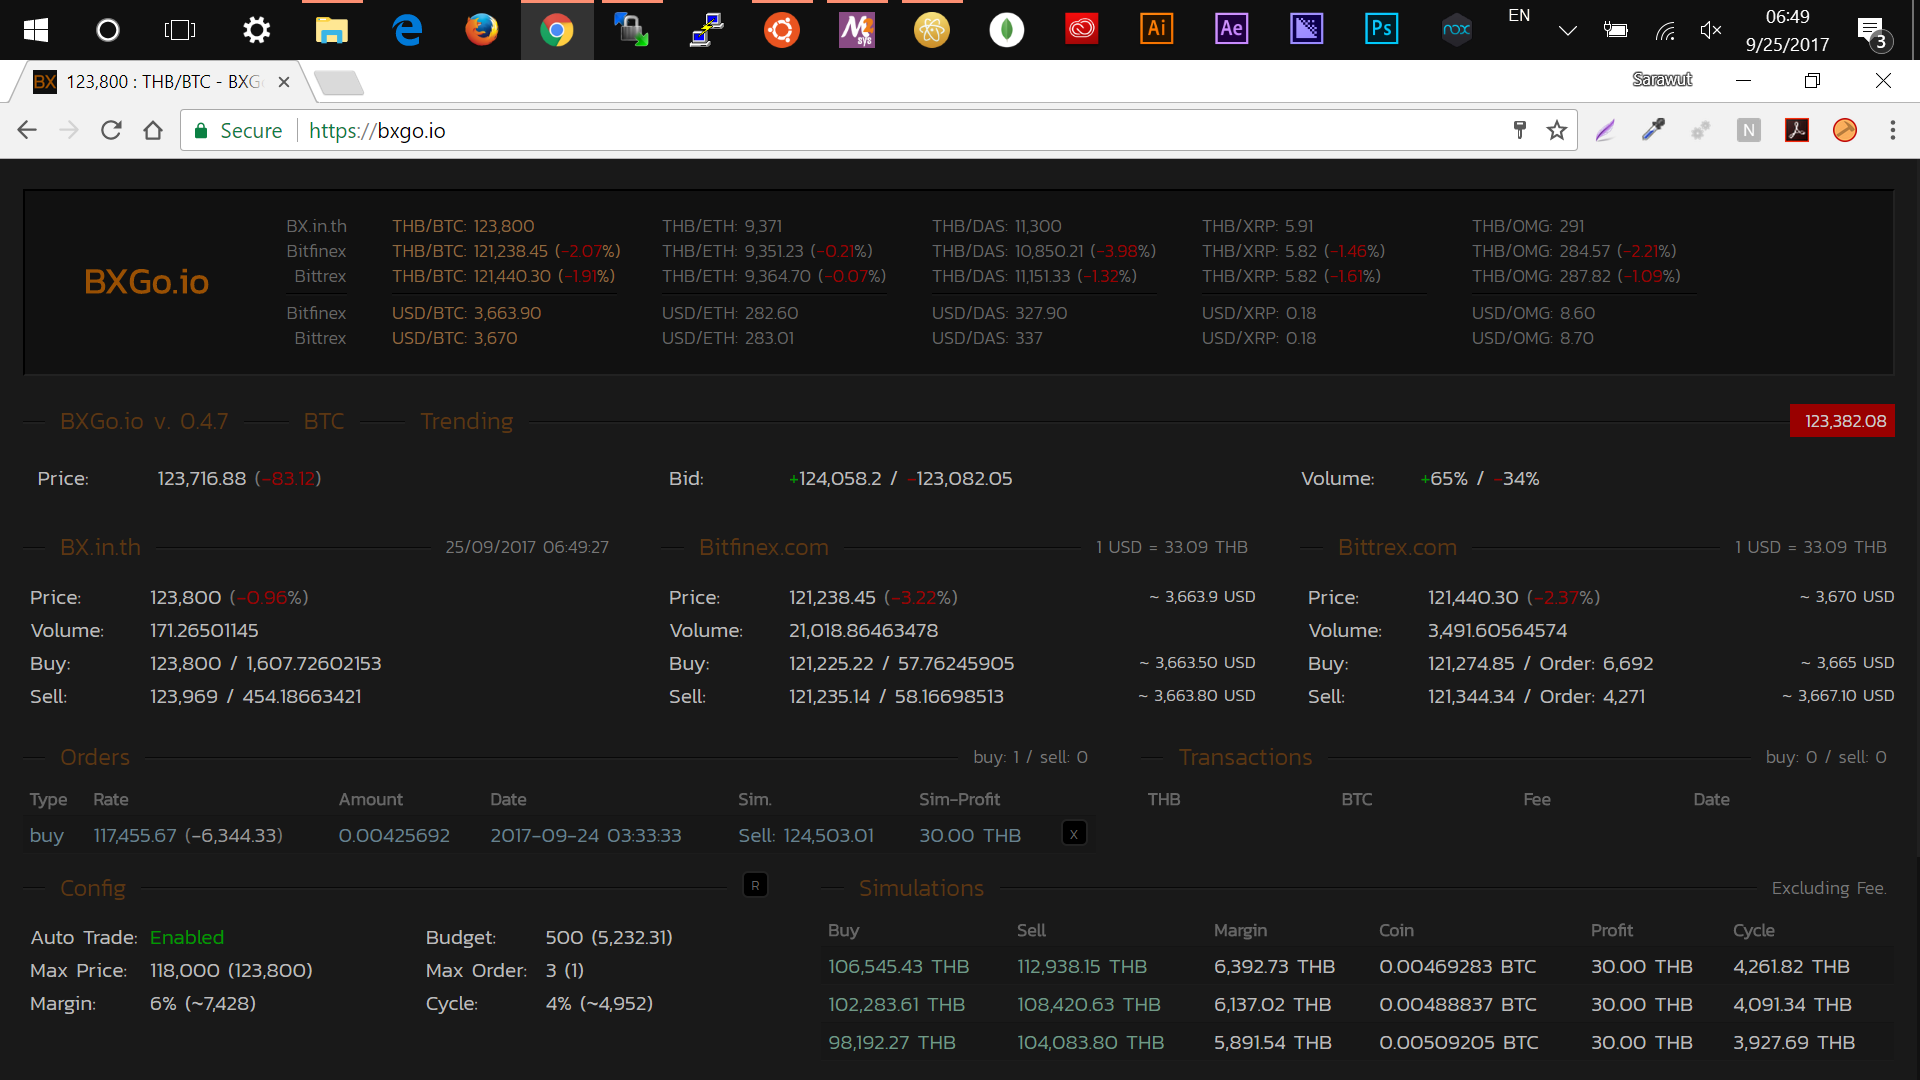
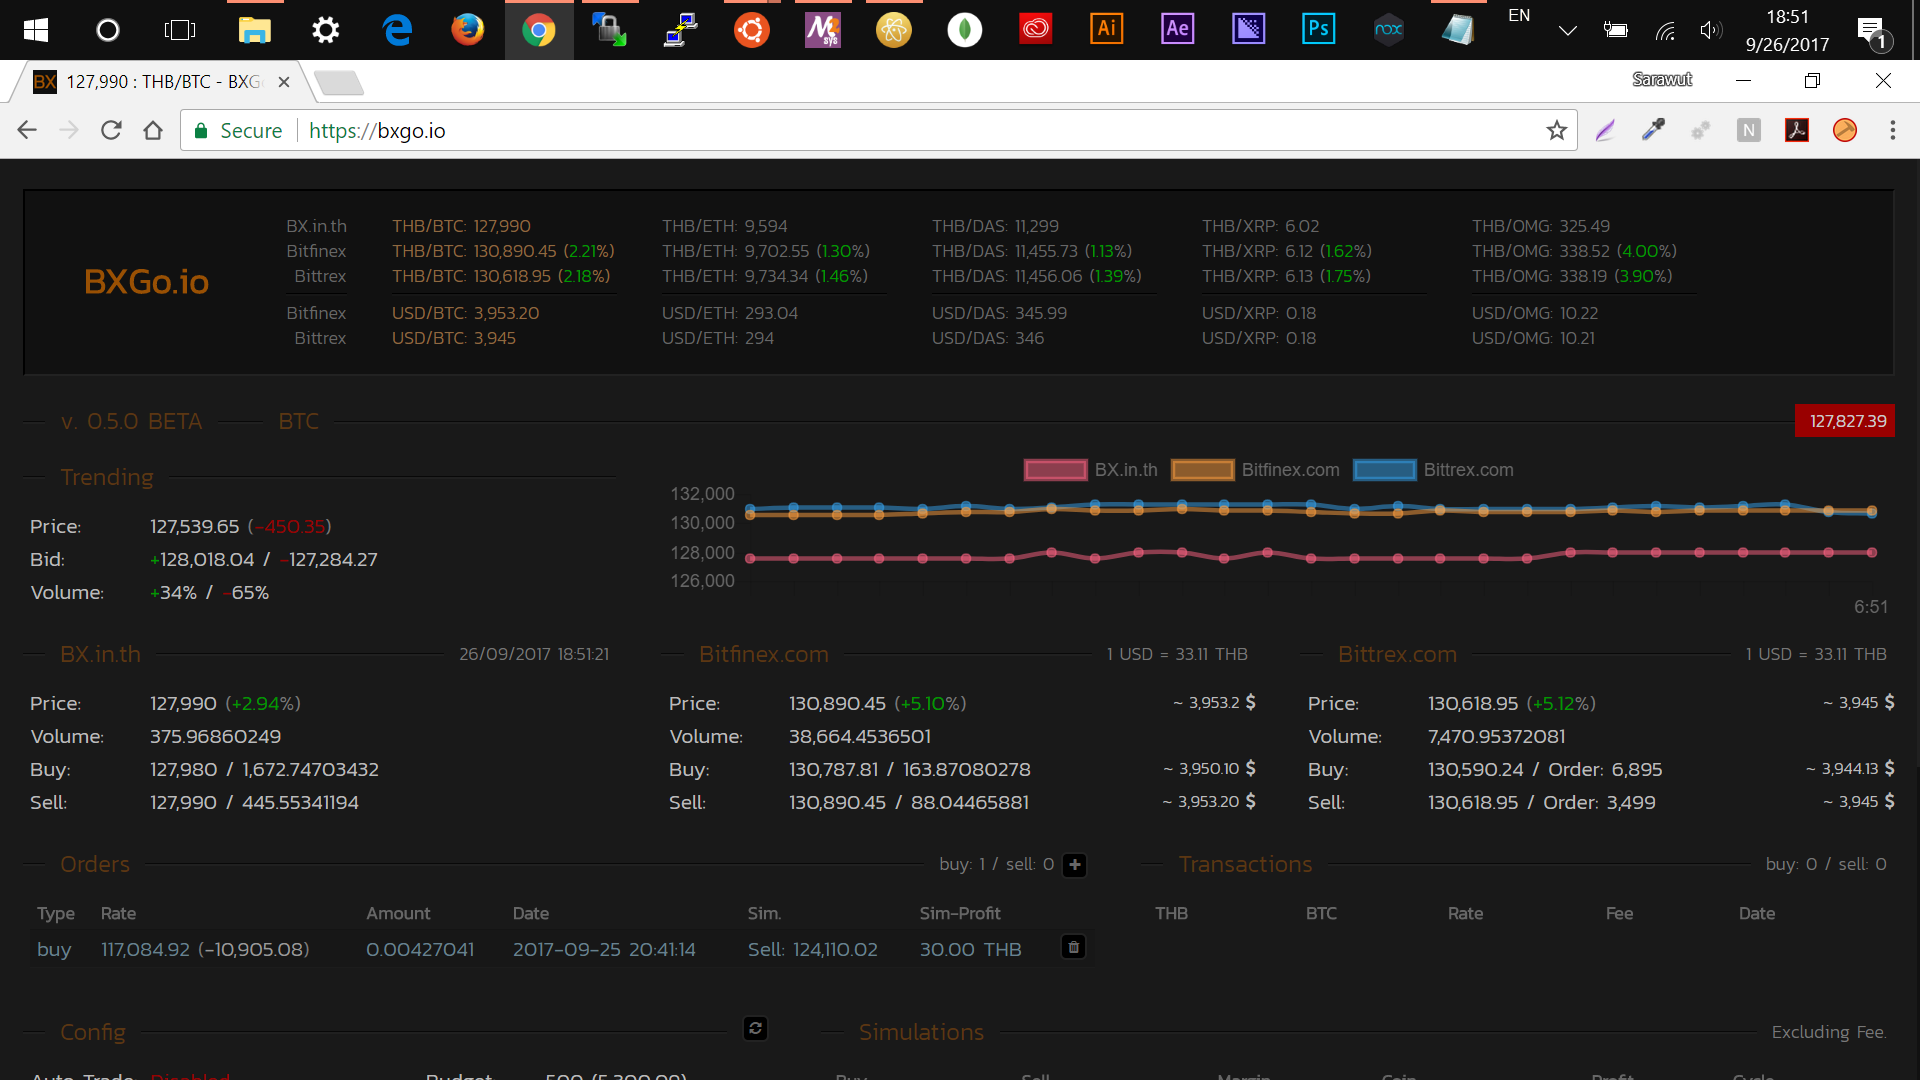
fixed js/update screenshot

diff --git a/theme/default/js/main.js b/theme/default/js/main.js
@@ -135,30 +135,31 @@ function _getData(){
         window.LineChart.update();
       }
       var bfn = data.bitfinex[data.pair.secondary_currency];
-      $('#bfn_price').html(_num(_fs(bfn[6]*THB)));
-      $('#bfn_price_usd').html(_num(bfn[6]));
-      _color($('#bfn_change'),_fs(bfn[5]*100));
-      $('#bfn_vol').html(_num(bfn[7]));
-      $('#bfn_buy').html(_num(_fs(bfn[0]*THB)));
-      $('#bfn_buy_usd').html(_num(_fs(bfn[0])));
-      $('#bfn_buy_vol').html(_num(bfn[1]));
-      $('#bfn_sell').html(_num(_fs(bfn[2]*THB)));
-      $('#bfn_sell_usd').html(_num(_fs(bfn[2])));
-      $('#bfn_sell_vol').html(_num(bfn[3]));
-
-
+      if(bfn){
+        $('#bfn_price').html(_num(_fs(bfn[6]*THB)));
+        $('#bfn_price_usd').html(_num(bfn[6]));
+        _color($('#bfn_change'),_fs(bfn[5]*100));
+        $('#bfn_vol').html(_num(bfn[7]));
+        $('#bfn_buy').html(_num(_fs(bfn[0]*THB)));
+        $('#bfn_buy_usd').html(_num(_fs(bfn[0])));
+        $('#bfn_buy_vol').html(_num(bfn[1]));
+        $('#bfn_sell').html(_num(_fs(bfn[2]*THB)));
+        $('#bfn_sell_usd').html(_num(_fs(bfn[2])));
+        $('#bfn_sell_vol').html(_num(bfn[3]));
+      }
       var btx = data.bittrex[data.pair.secondary_currency];
-      $('#btx_price').html(_num(_fs(btx.Price*THB)));
-      $('#btx_price_usd').html(_num(_fs(btx.Price)));
-      _color($('#btx_change'),_fs(btx.Change*100));
-      $('#btx_vol').html(_num(btx.Volume));
-      $('#btx_buy').html(_num(_fs(btx.Bid*THB)));
-      $('#btx_buy_usd').html(_num(_fs(btx.Bid)));
-      $('#btx_buy_vol').html('Order: '+_num(btx.Order_Buy));
-      $('#btx_sell').html(_num(_fs(btx.Ask*THB)));
-      $('#btx_sell_usd').html(_num(_fs(btx.Ask)));
-      $('#btx_sell_vol').html('Order: '+_num(btx.Order_Sell));
-
+      if(btx){
+        $('#btx_price').html(_num(_fs(btx.Price*THB)));
+        $('#btx_price_usd').html(_num(_fs(btx.Price)));
+        _color($('#btx_change'),_fs(btx.Change*100));
+        $('#btx_vol').html(_num(btx.Volume));
+        $('#btx_buy').html(_num(_fs(btx.Bid*THB)));
+        $('#btx_buy_usd').html(_num(_fs(btx.Bid)));
+        $('#btx_buy_vol').html('Order: '+_num(btx.Order_Buy));
+        $('#btx_sell').html(_num(_fs(btx.Ask*THB)));
+        $('#btx_sell_usd').html(_num(_fs(btx.Ask)));
+        $('#btx_sell_vol').html('Order: '+_num(btx.Order_Sell));
+      }
       $('#trend_trade').html(_num(_fs(data.trend.TRADE_AVG))).attr('class',(data.trend.TRADE_AVG<data.pair.last_price?'bred':'bgreen'));
       $('#trend_10_price').html(_num(data.trend.Price_AVG_10));
       _color($('#trend_10_change'),_fs(data.trend.Price_AVG_10-data.pair.last_price));
@@ -398,13 +399,14 @@ $(function(){
       options: {
           responsive: true,
           maintainAspectRatio:false,
-          title:{
-              display:false,
-          //    text:'Chart.js Line Chart'
-          },
           tooltips: {
               mode: 'index',
               intersect: false,
+              callbacks: {
+                  label: function(tooltipItem, data) {
+                      return Number(tooltipItem.yLabel).toLocaleString('en');
+                  }
+              }
           },
           hover: {
               mode: 'nearest',
@@ -422,7 +424,12 @@ $(function(){
               }],
               yAxes: [{
                   display: true,
-                  gridLines:{display:true,drawBorder:true,drawOnChartArea:false,}
+                  gridLines:{display:true,drawBorder:true,drawOnChartArea:false,},
+                  ticks: {
+                      callback: function (value) {
+                          return Number(value).toLocaleString('en');
+                      }
+                  }
               }]
           }
       }
